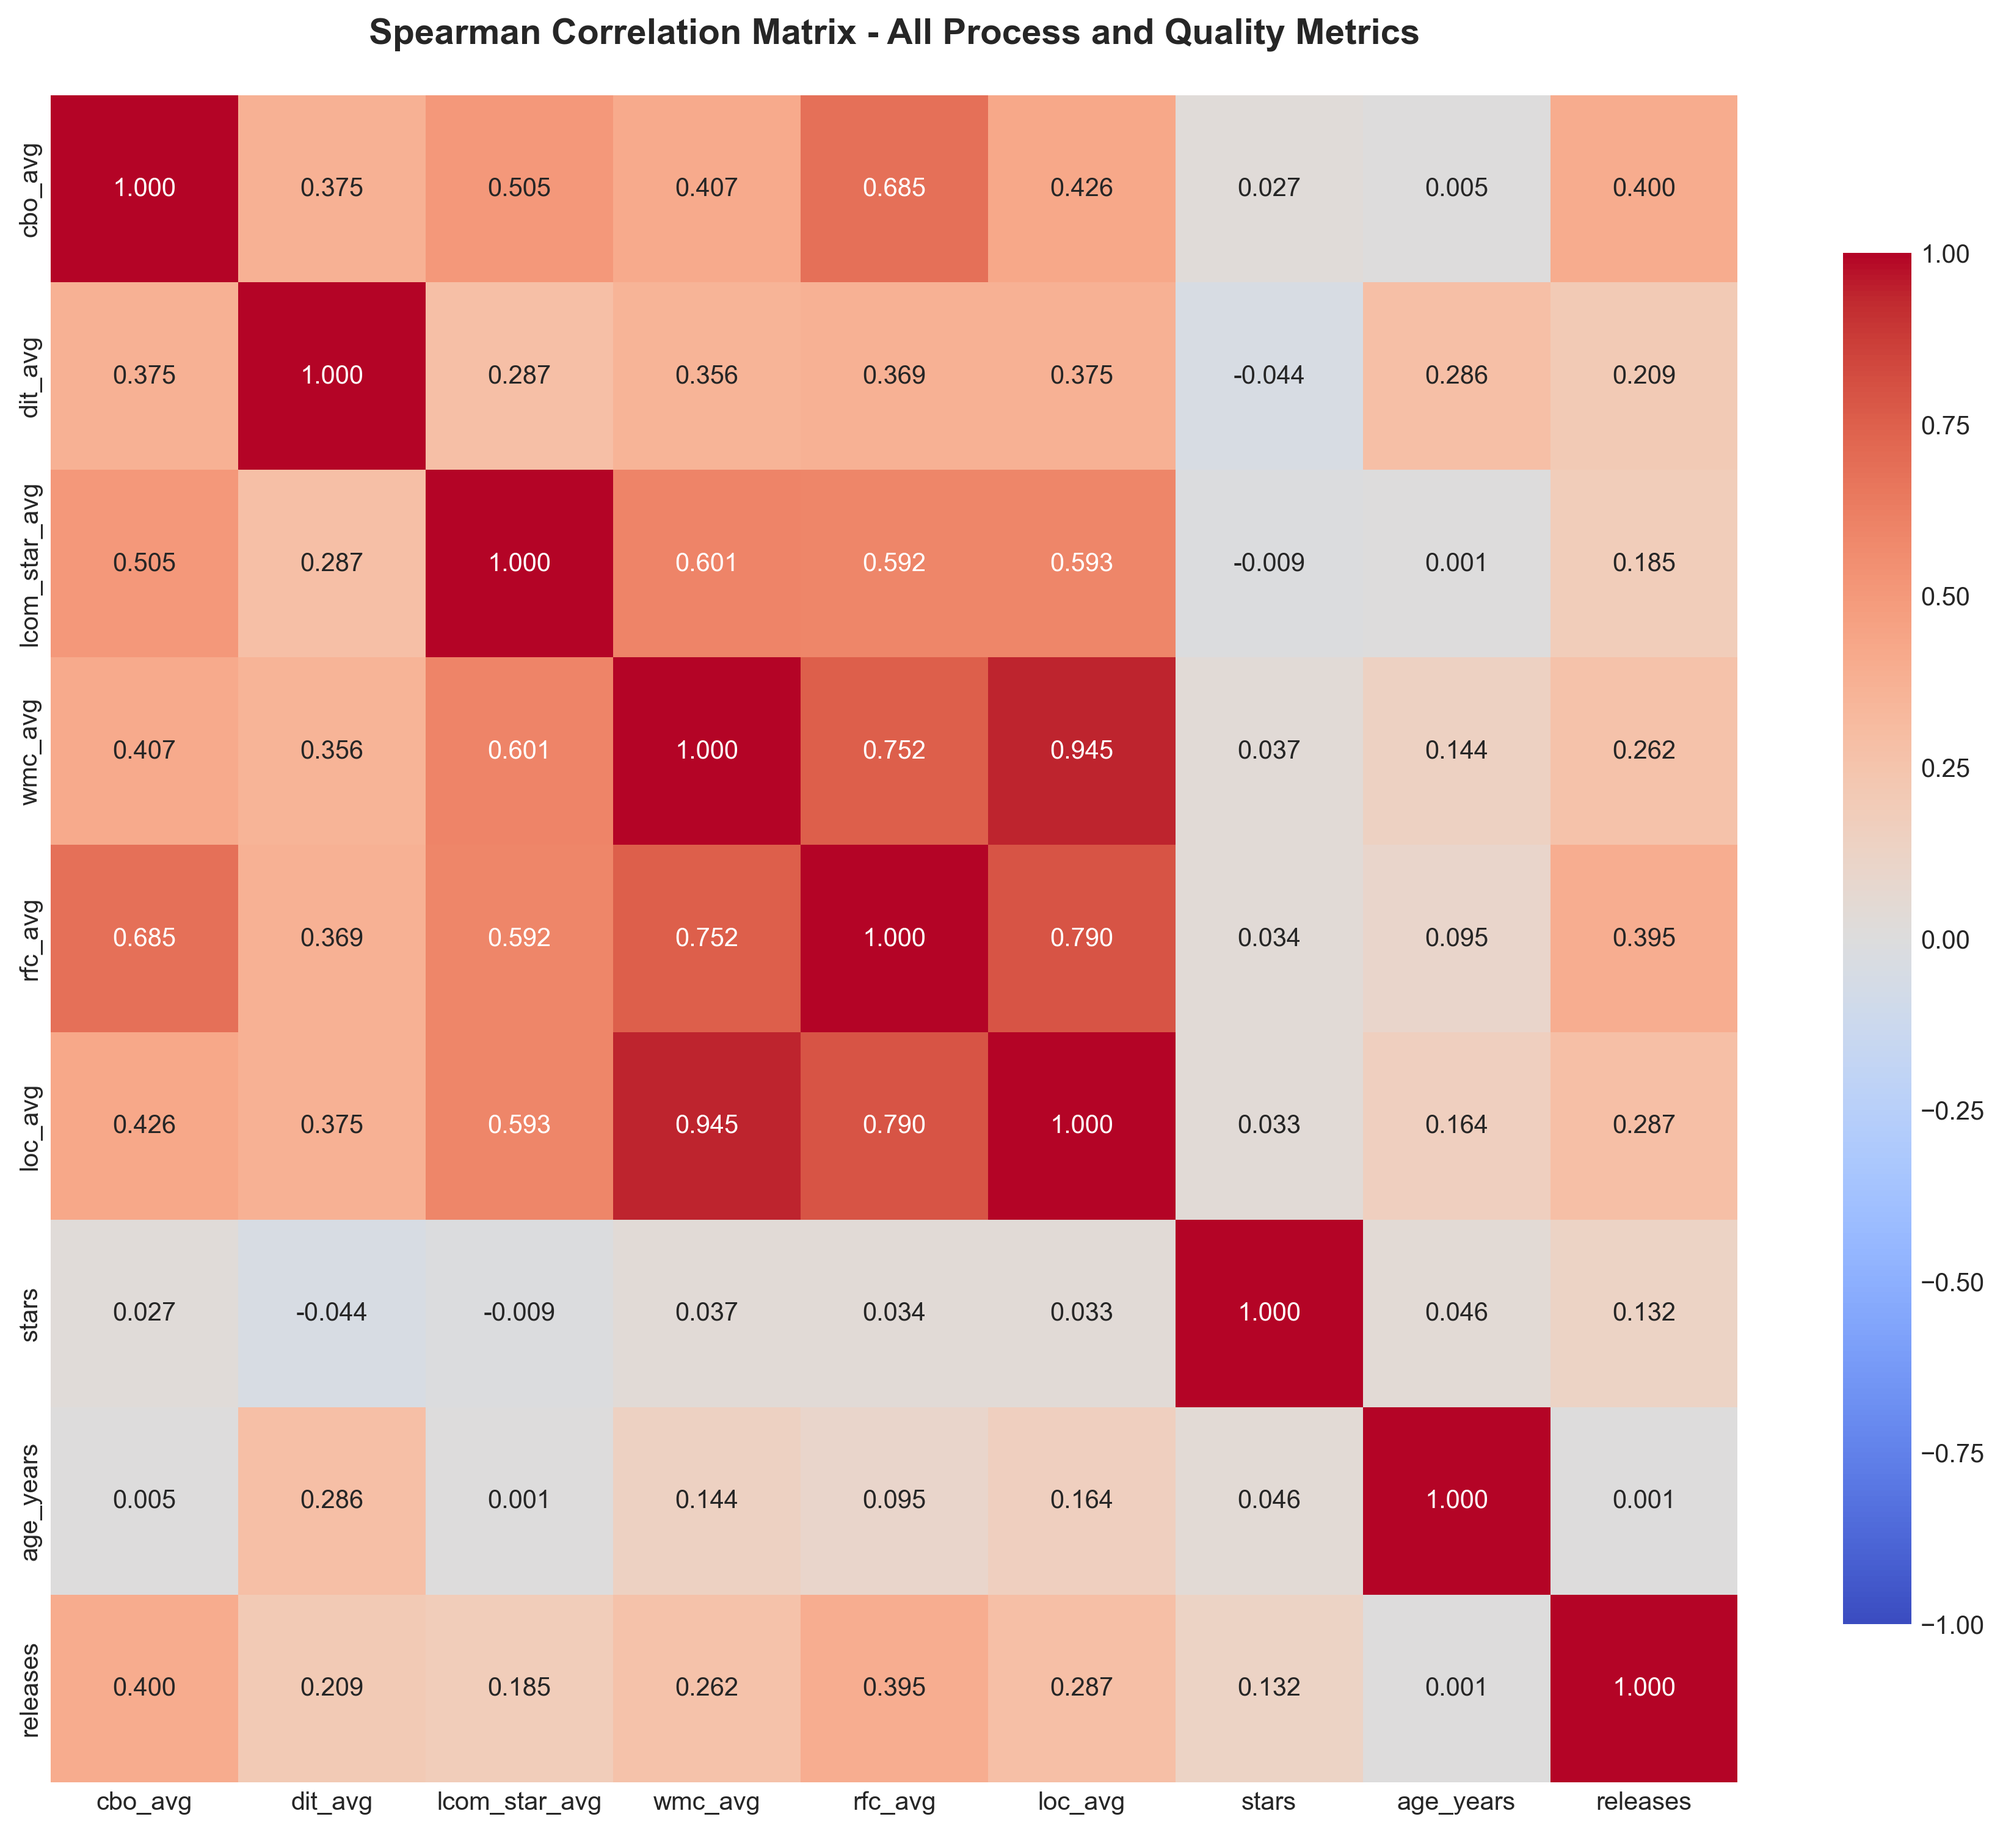
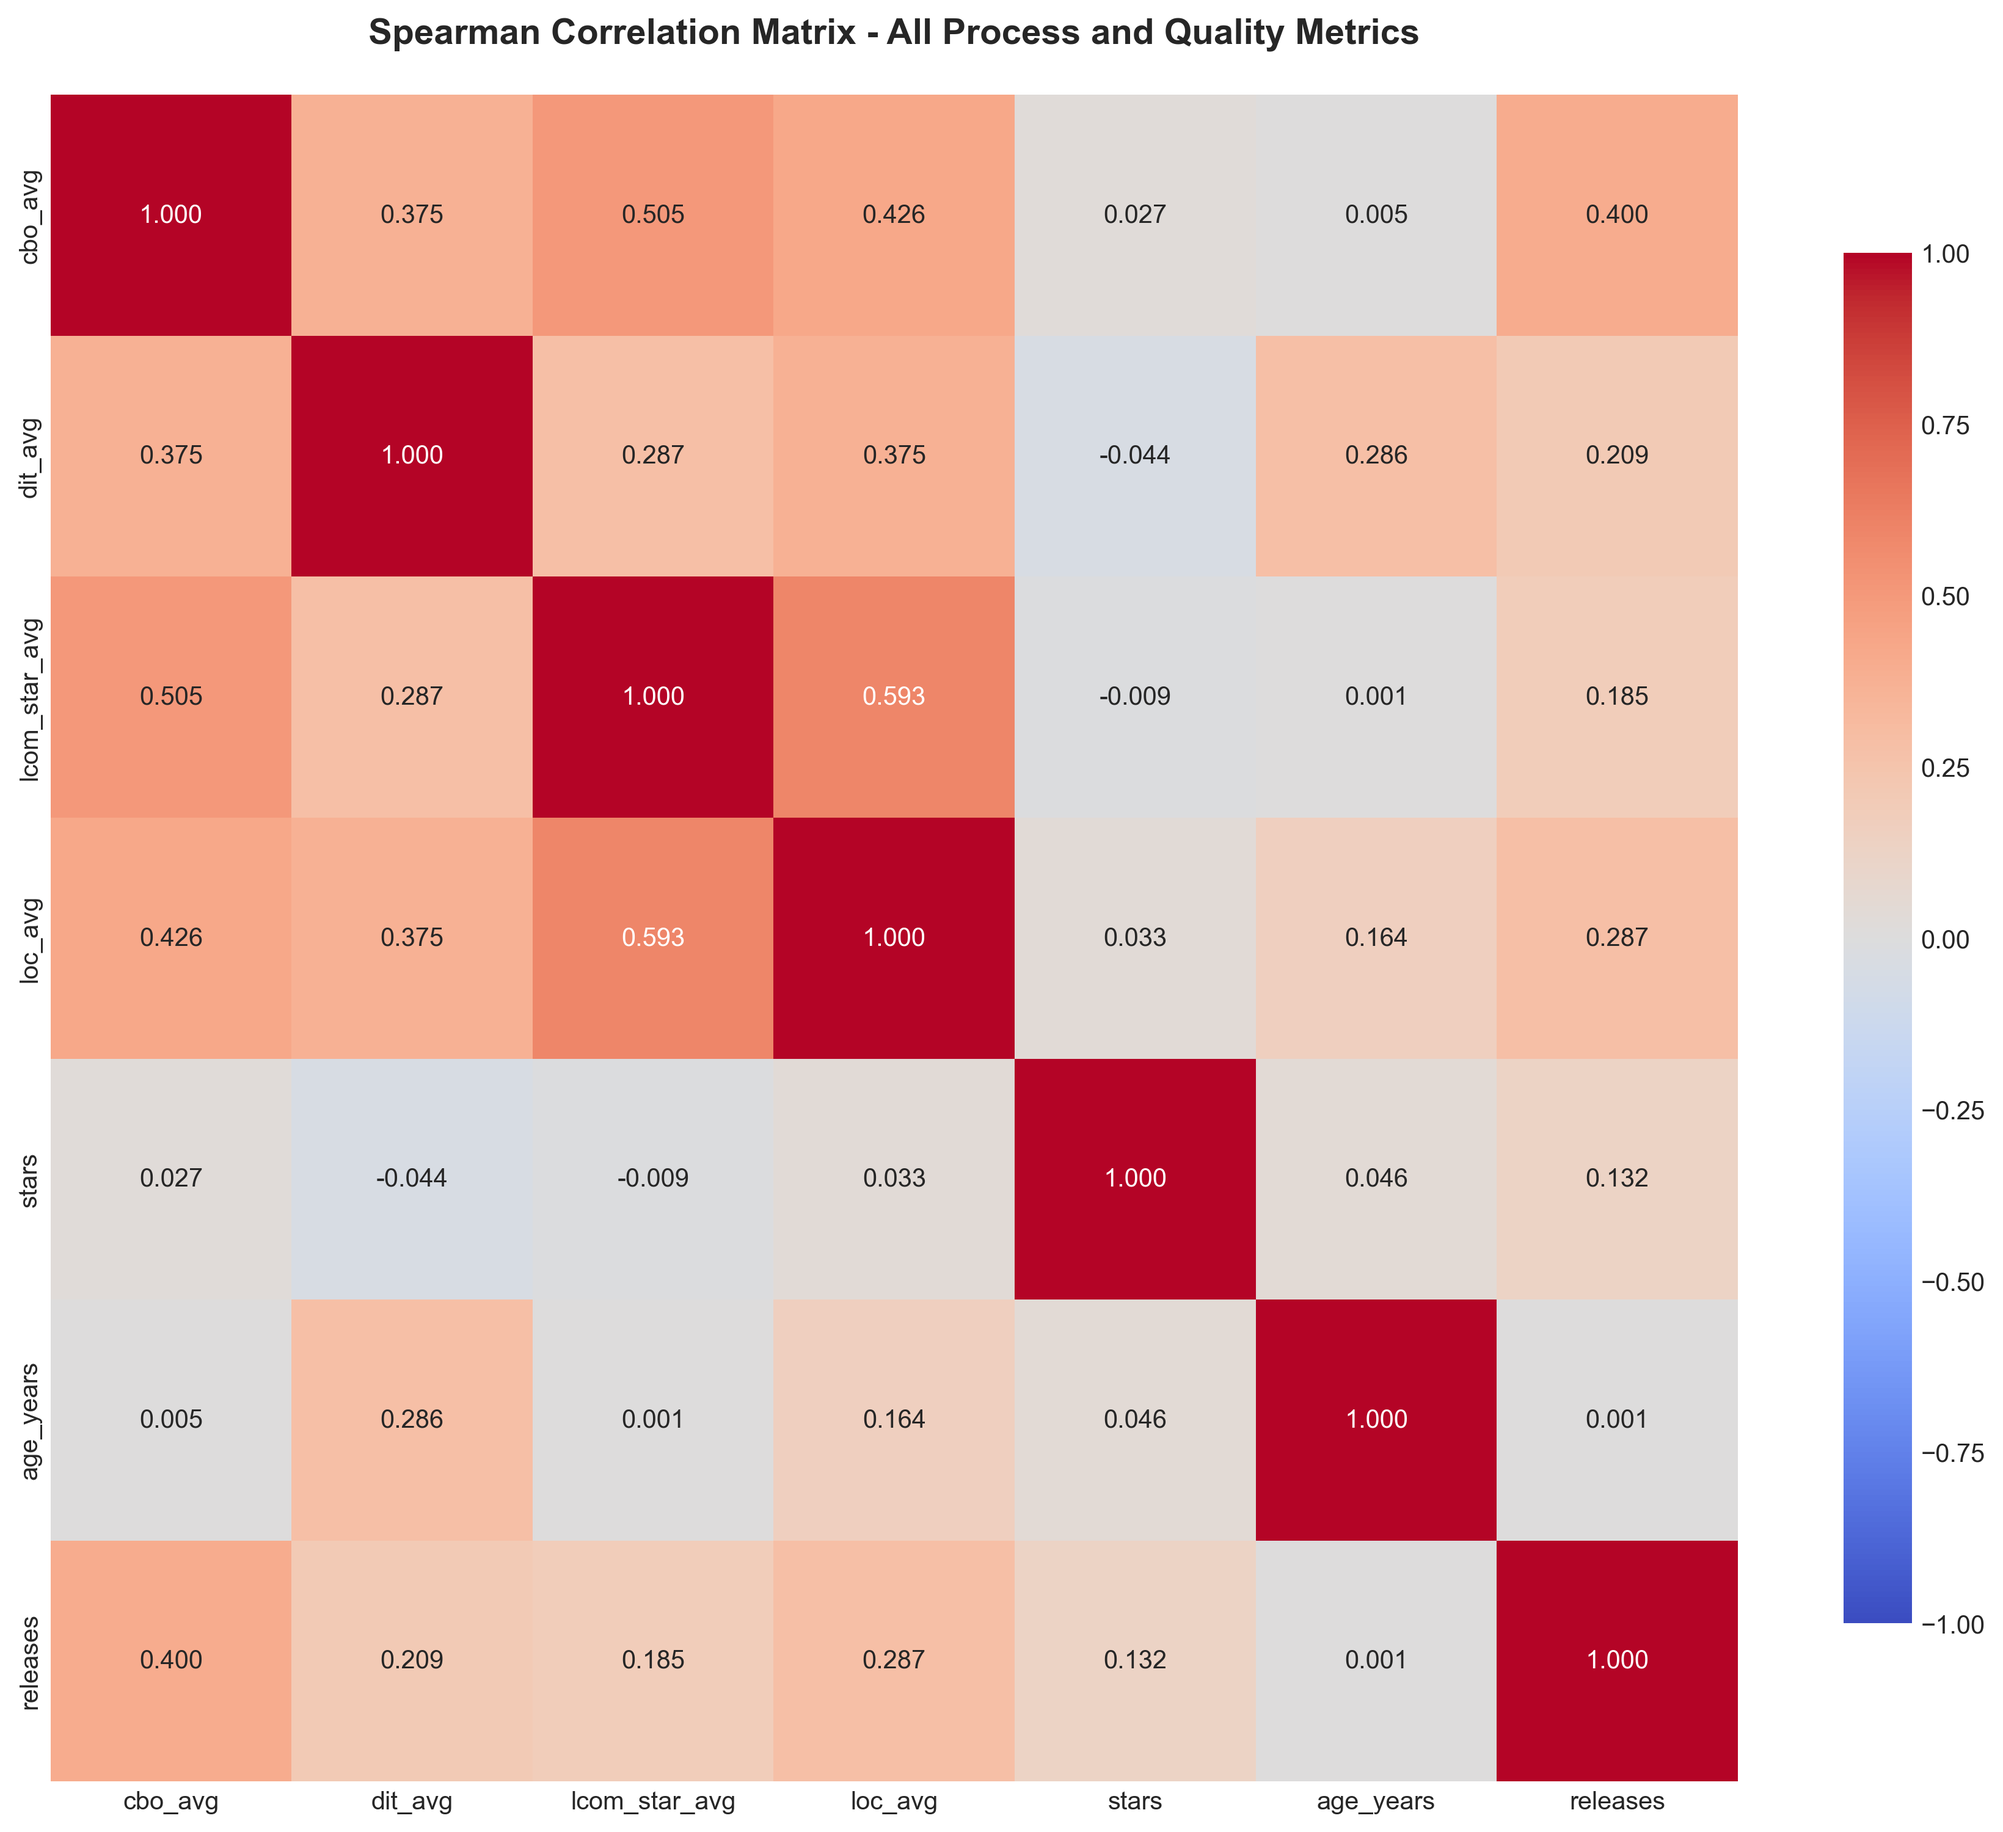
fix: atualiza análise removendo métricas desnecessárias

diff --git a/src/analysis/correlations.py b/src/analysis/correlations.py
@@ -80,7 +80,7 @@ def calculate_descriptive_stats(df):
     print("="*80)
     
     # Process metrics
-    process_metrics = ['cbo_avg', 'dit_avg', 'lcom_star_avg', 'wmc_avg', 'rfc_avg', 'loc_avg']
+    process_metrics = ['cbo_avg', 'dit_avg', 'lcom_star_avg', 'loc_avg']
     
     stats_dict = {}
     for metric in process_metrics:
@@ -107,7 +107,7 @@ def calculate_correlations(df):
     print("CORRELATION ANALYSIS - ALL RESEARCH QUESTIONS")
     print("="*80)
     
-    quality_metrics = ['cbo_avg', 'dit_avg', 'lcom_star_avg', 'wmc_avg', 'rfc_avg']
+    quality_metrics = ['cbo_avg', 'dit_avg', 'lcom_star_avg']
     
     # Define all process metrics (Research Questions) - in order RQ01-RQ04
     process_metrics = {
@@ -177,7 +177,7 @@ def create_scatter_plots(df):
     print("GENERATING SCATTER PLOTS FOR ALL RQs")
     print("="*80)
     
-    quality_metrics = ['cbo_avg', 'dit_avg', 'lcom_star_avg', 'wmc_avg', 'rfc_avg']
+    quality_metrics = ['cbo_avg', 'dit_avg', 'lcom_star_avg']
     
     # Process metrics by RQ - in order RQ01-RQ04
     rqs = {
@@ -194,7 +194,7 @@ def create_scatter_plots(df):
         
         print(f"\nGenerating plots for {rq_title}...")
         
-        fig, axes = plt.subplots(1, 5, figsize=(20, 4))
+        fig, axes = plt.subplots(1, 3, figsize=(12, 4))
         fig.suptitle(f'{rq_title} vs Quality Metrics', 
                      fontsize=14, fontweight='bold')
         
@@ -254,9 +254,9 @@ def create_distribution_plots(df):
     """Create distribution plots for quality metrics."""
     print("\nGenerating distribution plots...")
     
-    quality_metrics = ['cbo_avg', 'dit_avg', 'lcom_star_avg', 'wmc_avg', 'rfc_avg']
+    quality_metrics = ['cbo_avg', 'dit_avg', 'lcom_star_avg']
     
-    fig, axes = plt.subplots(2, 3, figsize=(16, 8))
+    fig, axes = plt.subplots(1, 3, figsize=(16, 5))
     fig.suptitle('Distribution of Quality Metrics Across Repositories', 
                  fontsize=16, fontweight='bold')
     
@@ -277,9 +277,6 @@ def create_distribution_plots(df):
             ax.legend()
             ax.grid(True, alpha=0.3)
     
-    # Remove empty subplot
-    fig.delaxes(axes[5])
-    
     plt.tight_layout()
     plot_file = os.path.join(FIGURES_DIR, "distributions.png")
     plt.savefig(plot_file, dpi=300, bbox_inches='tight')
@@ -292,7 +289,7 @@ def create_correlation_heatmap(df):
     print("\nGenerating correlation heatmap...")
     
     # All available metrics
-    all_metrics = ['cbo_avg', 'dit_avg', 'lcom_star_avg', 'wmc_avg', 'rfc_avg', 'loc_avg', 'stars', 'age_years', 'releases']
+    all_metrics = ['cbo_avg', 'dit_avg', 'lcom_star_avg', 'loc_avg', 'stars', 'age_years', 'releases']
     available_metrics = [m for m in all_metrics if m in df.columns]
     
     if len(available_metrics) < 2:
@@ -388,7 +385,7 @@ def generate_report_section(df, correlations, stats_dict):
     report.append("| Métrica | Média | Mediana | Desvio Padrão | Min | Max |")
     report.append("|---------|-------|---------|---------------|-----|-----|")
     
-    for metric in ['cbo_avg', 'dit_avg', 'lcom_star_avg', 'wmc_avg', 'rfc_avg']:
+    for metric in ['cbo_avg', 'dit_avg', 'lcom_star_avg']:
         if metric in df.columns:
             data = df[metric].dropna()
             report.append(f"| {metric} | {data.mean():.2f} | {data.median():.2f} | {data.std():.2f} | {data.min():.2f} | {data.max():.2f} |")
